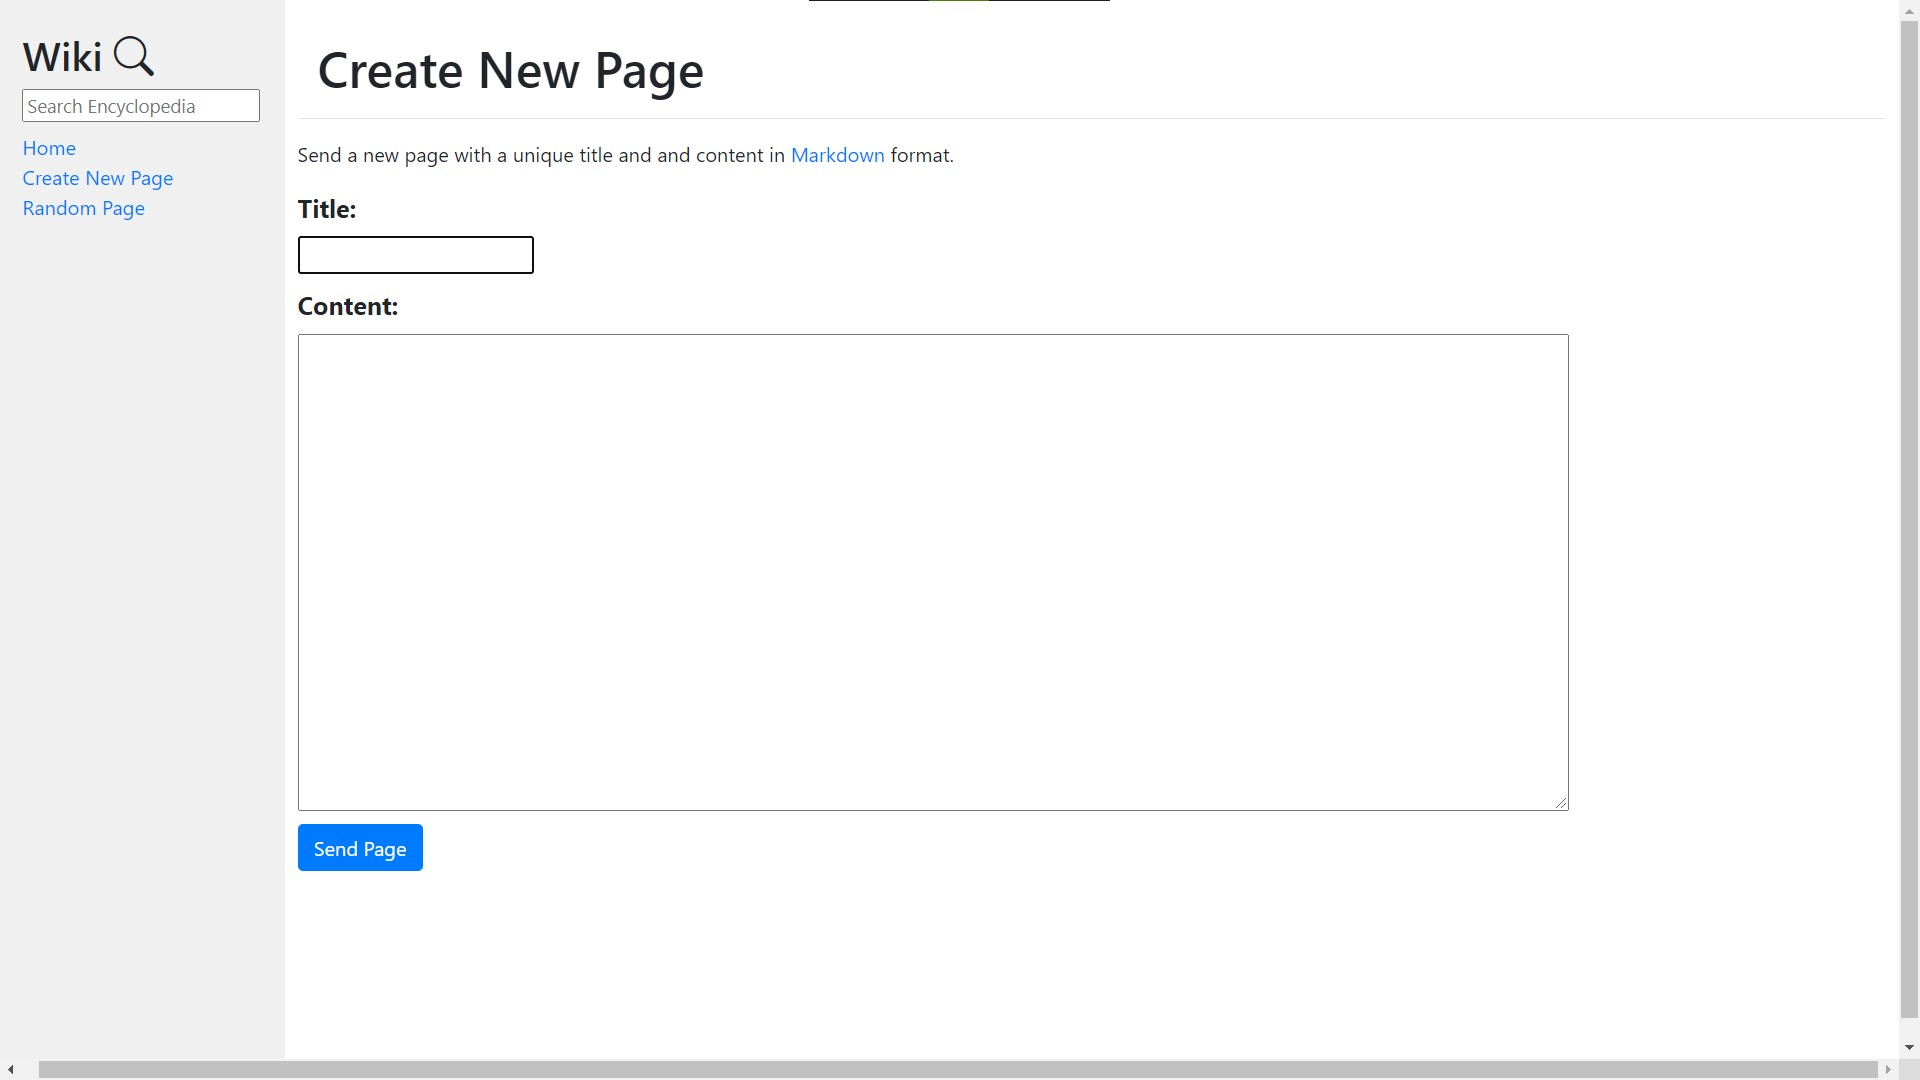
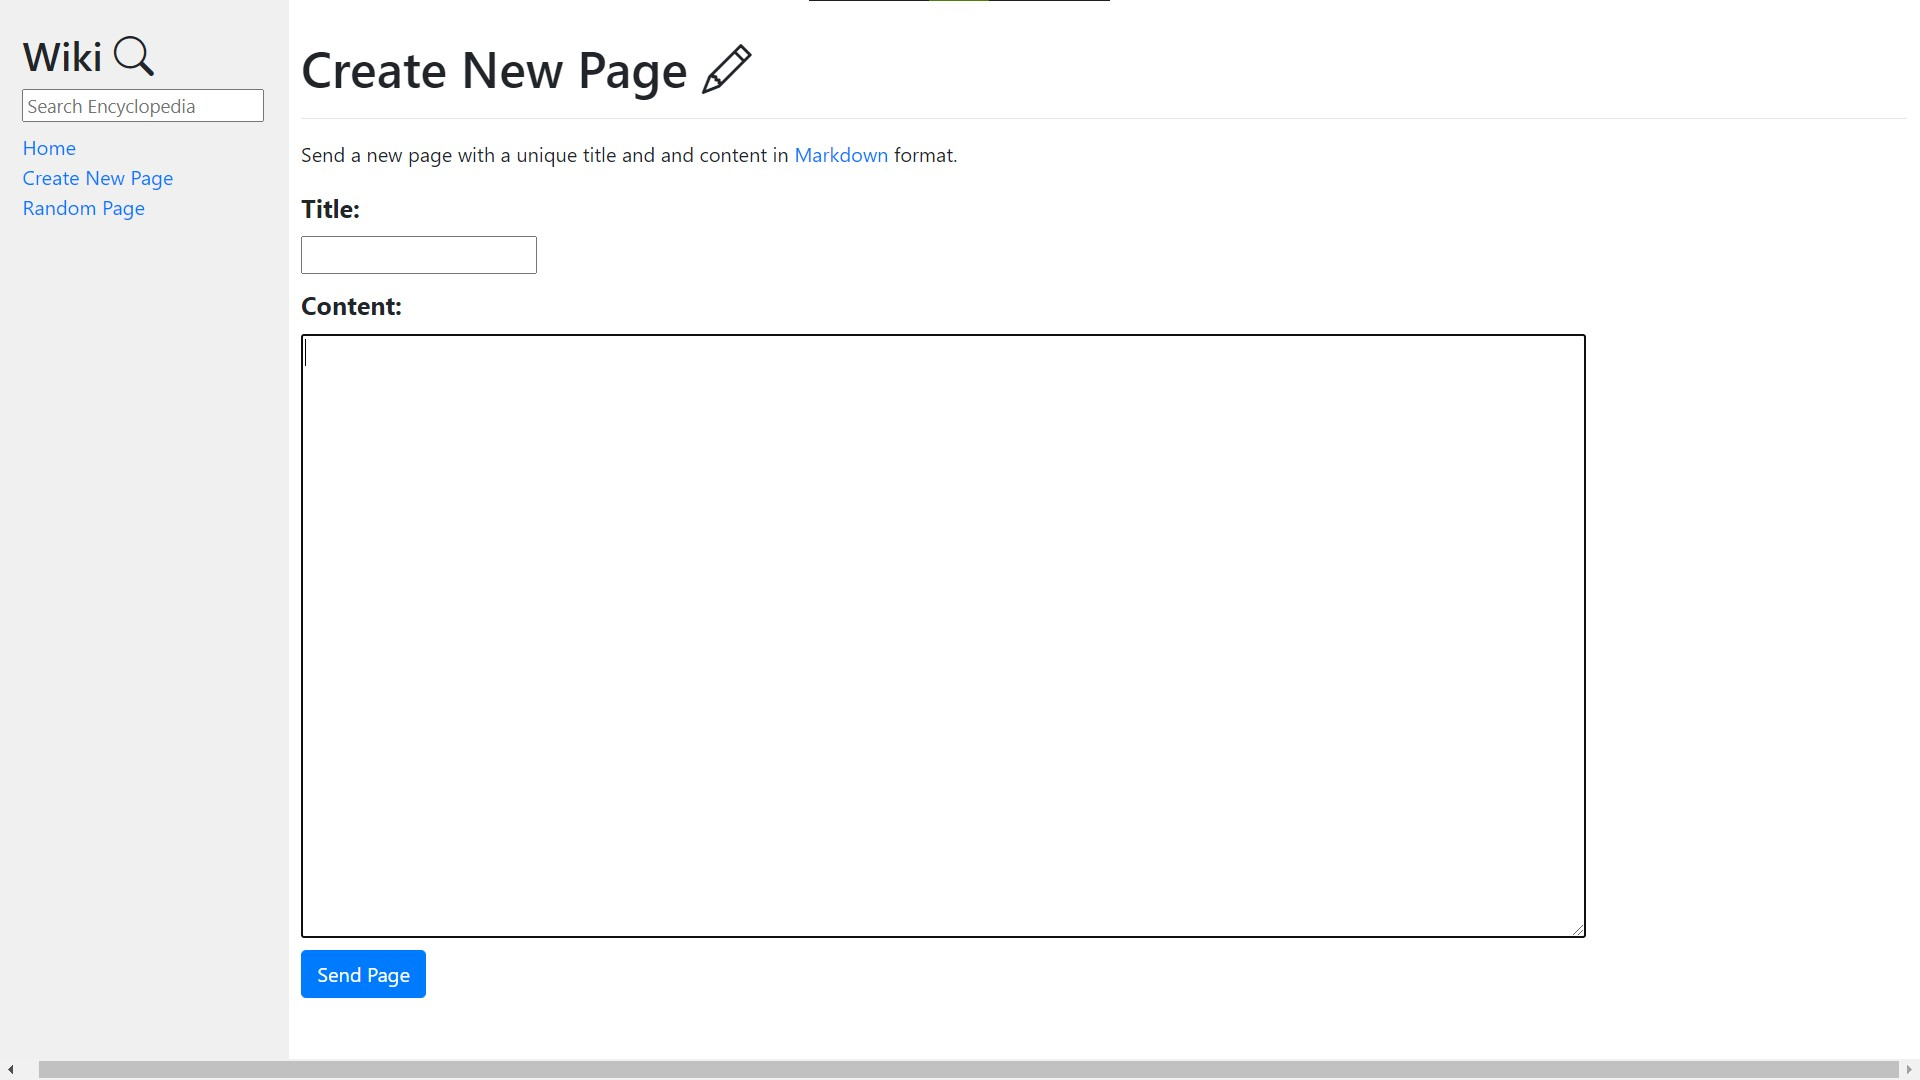
Add more screenshots and styling

diff --git a/encyclopedia/templates/encyclopedia/create.html b/encyclopedia/templates/encyclopedia/create.html
@@ -3,7 +3,7 @@
 {% block title %}Create New Page{% endblock %}
 
 {% block body %}
-    <h1 class="ml-3">Create New Page</h1>
+    <h1>Create New Page <i class="bi bi-pencil"></i></h1>
     <hr>
     <p>Send a new page with a unique title and and content in <a href="https://docs.github.com/en/github/writing-on-github/getting-started-with-writing-and-formatting-on-github/basic-writing-and-formatting-syntax">Markdown</a> format.</p>
     <form action="{% url 'create' %}" method="post">

diff --git a/encyclopedia/templates/encyclopedia/index.html b/encyclopedia/templates/encyclopedia/index.html
@@ -5,7 +5,7 @@
 {% endblock %}
 
 {% block body %}
-    <h1 class="ml-3">All Pages</h1>
+    <h1 class="ml-3">All Pages <i class="bi bi-book"></i></h1>
     <hr>
     <ul>
         {% for entry in entries %}
